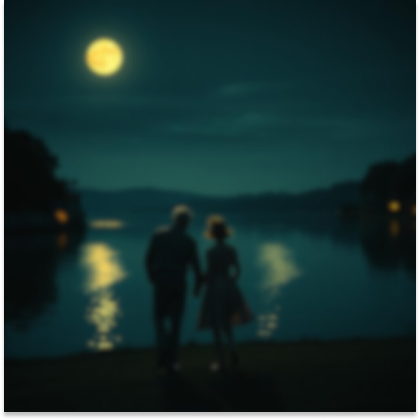
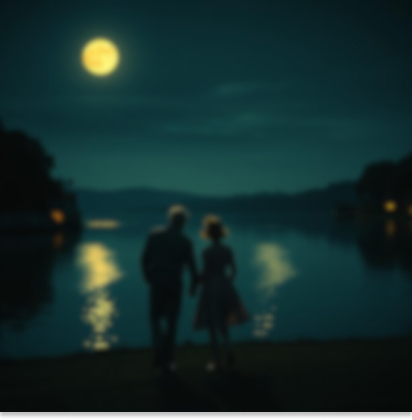
change image header, change View to FlatList, add new screen and add TextInput component

diff --git a/src/screens/SearchList/index.tsx b/src/screens/SearchList/index.tsx
@@ -1,52 +1,11 @@
-import { Container, HomeFlatList, Separator, TextVariant } from './styles';
+import { Container, SearchFlatList, SearchListScrollView, Separator, TextVariant } from './styles';
 import Header from '../../components/Header';
 import ItemCard from '../../components/ItemCard';
-import Carousel, { ICarouselInstance, Pagination } from 'react-native-reanimated-carousel';
-import { useSharedValue } from 'react-native-reanimated';
-import { Dimensions } from 'react-native';
-import { useRef } from 'react';
-import { useTheme } from 'styled-components/native';
 import { ItemCardProps } from '../../interfaces/ItemCardProps';
+import TextInput from '../../components/TextInput';
 
-const Home = (): React.JSX.Element => {
-  const theme = useTheme();
-  const SCREEN_WIDTH = Dimensions.get('screen').width;
-  const progress = useSharedValue<number>(0);
-	const baseOptions = {
-		vertical: false,
-		width: SCREEN_WIDTH,
-    height: 405,
-    marginLeft: 16,
-    marginRight: 16,
-    alignItem: 'center',
-    justifyContent: 'center',
-	} as const;
-
-  const paginationBasicStyle = {
-    dotStyle: {
-      marginTop: -38,
-      borderRadius: 12,
-      borderWidth: 1,
-      borderColor: theme.colors.gray,
-      borderStyle: 'solid' as 'solid',
-      width: 12,
-      height: 12,
-    },
-    activeDotStyle: {
-      backgroundColor: theme.colors.gray,
-    },
-    containerStyle: {
-      gap: 16,
-      borderRadius: 12,
-    },
-  };
-
+const SearchList = (): React.JSX.Element => {
   const defaultList = [0, 1, 2, 3, 4, 5];
-
-  const ref = useRef<ICarouselInstance>(null);
-  const onPressPagination = (index: number) => {
-    ref.current?.scrollTo({ index });
-	};
 
   const separator = () => <Separator />;
   const renderItemCard = (props: ItemCardProps) => {
@@ -65,7 +24,7 @@ const Home = (): React.JSX.Element => {
 
   return (
     <Container>
-      <HomeFlatList
+      <SearchFlatList
         data={defaultList}
         renderItem={() => renderItemCard({
           itemCardType: 'verticalList',
@@ -81,31 +40,21 @@ const Home = (): React.JSX.Element => {
           <>
             <Header
               title={'News for your\nInsomnia'}
-              imageStr={require('../../assets/images/imgScreen1.png')}
+              imageStr={require('../../assets/images/imgScreen2.png')}
             />
+            <TextInput />
             <TextVariant textType="titleSmall">Favorites categories</TextVariant>
-            <Carousel
-              ref={ref}
-              {...baseOptions}
-              loop
-              onProgressChange={progress}
-              data={defaultList}
-              renderItem={() => renderItemCard({
-                itemCardType: 'carousel',
+            <SearchListScrollView>
+              {defaultList.map(() => renderItemCard({
+                itemCardType: 'horizontalList',
                 urlToImage: 'https://gizmodo.com/app/uploads/2024/12/Tile.jpg',
                 title: 'Tile’s 4-Pack Bluetooth Trackers Now Beat Apple’s AirTags on Price and Function, Shape Variety Included',
                 description: 'For a limited time, you can get this four-pack of Tile trackers at all-time low price on Amazon.',
                 sourceName: 'Gizmodo.com',
                 publishedAt: '2025-05-21T12:14:49Z',
                 isFavorite: false,
-              })}
-            />
-            <Pagination.Basic
-              {...paginationBasicStyle}
-              progress={progress}
-              data={defaultList}
-              onPress={onPressPagination}
-            />
+              }))}
+            </SearchListScrollView>
             <TextVariant textType="titleSmall">News</TextVariant>
         </>
         }
@@ -114,4 +63,4 @@ const Home = (): React.JSX.Element => {
   );
 };
 
-export default Home;
+export default SearchList;

diff --git a/src/styles/textVariantes.ts b/src/styles/textVariantes.ts
@@ -18,57 +18,57 @@ export type TextVariant =
 export const getTextVariants = (theme: Theme) => ({
   titleLarge: {
     fontSize: theme.fontSize.xxl,
-    color: theme.colors.titleColor,
+    color: theme.colors.white,
     fontFamily: theme.fontFamily.titleLarge,
   },
   titleMedium: {
     fontSize: theme.fontSize.xl,
-    color: theme.colors.titleColor,
+    color: theme.colors.white,
     fontFamily: theme.fontFamily.titleMedium,
   },
   titleRegular: {
     fontSize: theme.fontSize.lg,
-    color: theme.colors.titleColor,
+    color: theme.colors.white,
     fontFamily: theme.fontFamily.titleRegular,
   },
   titleSmall: {
     fontSize: theme.fontSize.md,
-    color: theme.colors.titleColor,
+    color: theme.colors.white,
     fontFamily: theme.fontFamily.titleSmall,
   },
   bodyLarge: {
     fontSize: theme.fontSize.lg,
-    color: theme.colors.textColor,
+    color: theme.colors.gray,
     fontFamily: theme.fontFamily.bodyLarge,
   },
   bodyMedium: {
     fontSize: theme.fontSize.md,
-    color: theme.colors.textColor,
+    color: theme.colors.gray,
     fontFamily: theme.fontFamily.bodyMedium,
   },
   bodySmall: {
     fontSize: theme.fontSize.sm,
-    color: theme.colors.textColor,
+    color: theme.colors.gray,
     fontFamily: theme.fontFamily.bodySmall,
   },
   captionLarge: {
     fontSize: theme.fontSize.xs,
-    color: theme.colors.titleColor,
+    color: theme.colors.white,
     fontFamily: theme.fontFamily.captionLarge,
   },
   captionLargeItalic: {
     fontSize: theme.fontSize.xs,
-    color: theme.colors.titleColor,
+    color: theme.colors.white,
     fontFamily: theme.fontFamily.captionLargeItalic,
   },
   captionSmall: {
     fontSize: theme.fontSize.xxs,
-    color: theme.colors.titleColor,
+    color: theme.colors.white,
     fontFamily: theme.fontFamily.captionSmall,
   },
   captionSmallItalic: {
     fontSize: theme.fontSize.xxs,
-    color: theme.colors.titleColor,
+    color: theme.colors.white,
     fontFamily: theme.fontFamily.captionSmallItalic,
   },
 });

diff --git a/src/components/ItemCard/styles.ts b/src/components/ItemCard/styles.ts
@@ -3,6 +3,7 @@ import styled from 'styled-components/native';
 import Text from '../Text';
 import { getLayoutByType } from '../../styles/layoutByType';
 import { ItemCardStyledProps } from '../../interfaces/ItemCardProps';
+import { theme as shadowColor } from '../../styles/theme';
 
 const layout = getLayoutByType();
 
@@ -15,6 +16,7 @@ export const RNItemCard = styled.View<ItemCardStyledProps>`
 
 export const TouchableItemCard = styled.TouchableOpacity<ItemCardStyledProps>`
   height: 100%;
+
   width: ${({ itemCardType }) => layout.TouchableItemCard.width[itemCardType]};
   flex-direction:  ${({ itemCardType }) => layout.TouchableItemCard.flexDirection[itemCardType]};
   background-color: ${({ theme }) => theme.colors.primaryColor};
@@ -70,9 +72,9 @@ export const FavoriteFlag = styled.TouchableOpacity`
   align-items: center;
   justify-content: center;
 
-  border-bottom-left-radius: ${({ theme }) => theme.borderRadius.md};
-  border-bottom-right-radius: ${({ theme }) => theme.borderRadius.md};
-  background-color: ${({ theme }) => theme.colors.backgroundAppColor};
+  border-bottom-left-radius: ${({ theme }) => theme.borderRadius.md}px;
+  border-bottom-right-radius: ${({ theme }) => theme.borderRadius.md}px;
+  background-color: ${({ theme }) => theme.colors.secondaryColor};
   right: ${({ theme }) => theme.spacing.md}px;
 `;
 
@@ -99,7 +101,7 @@ export const Description = styled(Text)<ItemCardStyledProps>`
 
 RNItemCard.defaultProps = {
   style: {
-    shadowColor: '#000',
+    shadowColor: shadowColor.colors.black,
     shadowOffset: { width: 0, height: 4 },
     shadowOpacity: 0.25,
     shadowRadius: 4,

diff --git a/src/screens/SearchList/styles.ts b/src/screens/SearchList/styles.ts
@@ -7,12 +7,12 @@ export const Container = styled.View`
 `;
 
 export const TextVariant = styled(Text)`
-  width: 100%;
   padding-top: ${({ theme }) => theme.spacing.lg}px;
   padding-bottom: ${({ theme }) => theme.spacing.md}px;
+  width: 100%;
 `;
 
-export const HomeFlatList = styled.FlatList.attrs(({ theme }) => ({
+export const SearchFlatList = styled.FlatList.attrs(({ theme }) => ({
   contentContainerStyle: {
     paddingHorizontal: theme.spacing.md,
   },
@@ -20,6 +20,14 @@ export const HomeFlatList = styled.FlatList.attrs(({ theme }) => ({
     alignItems: 'center',
   },
 }))``;
+
+export const SearchListScrollView = styled.ScrollView.attrs({
+  contentContainerStyle: {
+    gap: 16,
+  },
+  horizontal: true,
+  showsHorizontalScrollIndicator: false,
+})``;
 
 export const Separator = styled.View`
   height: 16px;

diff --git a/src/components/Header/styles.ts b/src/components/Header/styles.ts
@@ -2,22 +2,23 @@ import styled from 'styled-components/native';
 import { Dimensions } from 'react-native';
 import Logo from '../../assets/svg/Logo';
 
-const { width: widthScreen } = Dimensions.get('window');
+const SCREEN_WIDTH = Dimensions.get('screen').width;
 
 export const RNHeader = styled.View`
   justify-content: flex-end;
   align-items: flex-start;
 
-  width: ${widthScreen}px;
-  height: ${widthScreen}px;
+  width: ${SCREEN_WIDTH}px;
+  height: ${SCREEN_WIDTH}px;
   padding: 32px 24px;
 `;
 
 export const ImageHeader = styled.Image`
-  width: ${widthScreen}px;
-  height: ${widthScreen}px;
+  width: ${SCREEN_WIDTH}px;
+  height: ${SCREEN_WIDTH}px;
 
   position: absolute;
+  left: 0;
 `;
 
 export const StyledLogo = styled(Logo).attrs({

diff --git a/src/components/SelectableBox/index.tsx b/src/components/SelectableBox/index.tsx
@@ -21,7 +21,7 @@ const SelectableBox = (props: SelectableBoxProps): React.JSX.Element => {
 
   const backgroundColor = animatedValue.interpolate({
     inputRange: [0, 1],
-    outputRange: [theme.colors.primaryColor, theme.colors.textColor],
+    outputRange: [theme.colors.primaryColor, theme.colors.gray],
   });
 
   const handleToggle = () => {
@@ -35,8 +35,8 @@ const SelectableBox = (props: SelectableBoxProps): React.JSX.Element => {
           textType="bodyMedium"
           style={{
             color: isSelected
-              ? theme.colors.backgroundAppColor
-              : theme.colors.textColor,
+              ? theme.colors.secondaryColor
+              : theme.colors.gray,
           }}
         >
           {props.label}

diff --git a/src/components/TextInput/styles.ts b/src/components/TextInput/styles.ts
@@ -1,0 +1,26 @@
+import styled from 'styled-components/native';
+import { Dimensions } from 'react-native';
+
+const WIDTH_SCREEN = Dimensions.get('screen').width;
+
+export const RNTextInput = styled.TextInput`
+  height: 54px;
+  width: ${WIDTH_SCREEN - 32}px;
+
+  border-radius: ${({ theme }) => theme.borderRadius.sm}px;
+  background-color: ${({ theme }) => theme.colors.primaryColor};
+  padding-left: ${({ theme }) => theme.spacing.md}px;
+  font-family: ${({ theme }) => theme.fontFamily.bodyMedium};
+  font-size: 16px;
+`;
+
+RNTextInput.defaultProps = {
+  style: {
+    shadowColor: '#000',
+    shadowOffset: { width: 0, height: 4 },
+    shadowOpacity: 0.25,
+    shadowRadius: 4,
+    elevation: 4,
+  },
+};
+

diff --git a/src/App.tsx b/src/App.tsx
@@ -1,9 +1,9 @@
-import React, { useEffect } from 'react';
+import { useEffect } from 'react';
 import BootSplash from 'react-native-bootsplash';
 import { ThemeProvider } from 'styled-components/native';
 import { GestureHandlerRootView } from 'react-native-gesture-handler';
 import { theme } from './styles/theme';
-import Home from './screens/Home';
+import SearchList from './screens/SearchList';
 
 const App = (): React.JSX.Element => {
 
@@ -14,7 +14,7 @@ const App = (): React.JSX.Element => {
   return (
     <GestureHandlerRootView>
       <ThemeProvider theme={theme}>
-        <Home />
+        <SearchList />
       </ThemeProvider>
     </GestureHandlerRootView>
   );

diff --git a/src/components/Button/styles.ts b/src/components/Button/styles.ts
@@ -1,11 +1,12 @@
 import styled from 'styled-components/native';
+import { ButtonStyleProps } from '../../interfaces/ButtonProps';
 
-export const RNButton = styled.TouchableOpacity`
+export const RNButton = styled.TouchableOpacity<ButtonStyleProps>`
   background-color: ${({ theme }) => theme.colors.primaryColor};
   border-radius: ${({ theme }) => theme.borderRadius.sm}px;
+  width: ${({ typeButton }) => typeButton === 'icon' ? '52px' : '100%'};
 
   height: 54px;
-  width: 100%;
   align-items: center;
   justify-content: center;
 `;

diff --git a/src/components/Button/index.tsx b/src/components/Button/index.tsx
@@ -1,11 +1,10 @@
-import Text from '../Text';
 import { RNButton } from './styles';
 import { ButtonProps } from '../../interfaces/ButtonProps';
 
 const Button = (props: ButtonProps): React.JSX.Element => {
   return (
-    <RNButton onPress={props.onPress} activeOpacity={0.7}>
-      <Text textType="bodyMedium">{props.children}</Text>
+    <RNButton typeButton={props.typeButton} onPress={props.onPress} activeOpacity={0.7}>
+      {props.children}
     </RNButton>
   );
 };

diff --git a/src/screens/FavoriteCategories/index.tsx b/src/screens/FavoriteCategories/index.tsx
@@ -53,7 +53,9 @@ const FavoriteCategories = (): React.JSX.Element => {
         </Content>
       </View>
       <ContentButton>
-        <Button onPress={() => console.log('Button')}>Save</Button>
+        <Button onPress={() => console.log('Button')} typeButton="text">
+          <Text textType="bodyMedium">Save</Text>
+        </Button>
       </ContentButton>
     </Container>
   );

diff --git a/src/screens/FavoriteCategories/styles.ts b/src/screens/FavoriteCategories/styles.ts
@@ -8,7 +8,7 @@ export const Container = styled.ScrollView.attrs(() => ({
   },
 }))`
   flex: 1;
-  background-color: ${({ theme }) => theme.colors.backgroundAppColor};
+  background-color: ${({ theme }) => theme.colors.secondaryColor};
   padding-left: ${({ theme }) => theme.spacing.md}px;
   padding-right: ${({ theme }) => theme.spacing.md}px;
 `;
